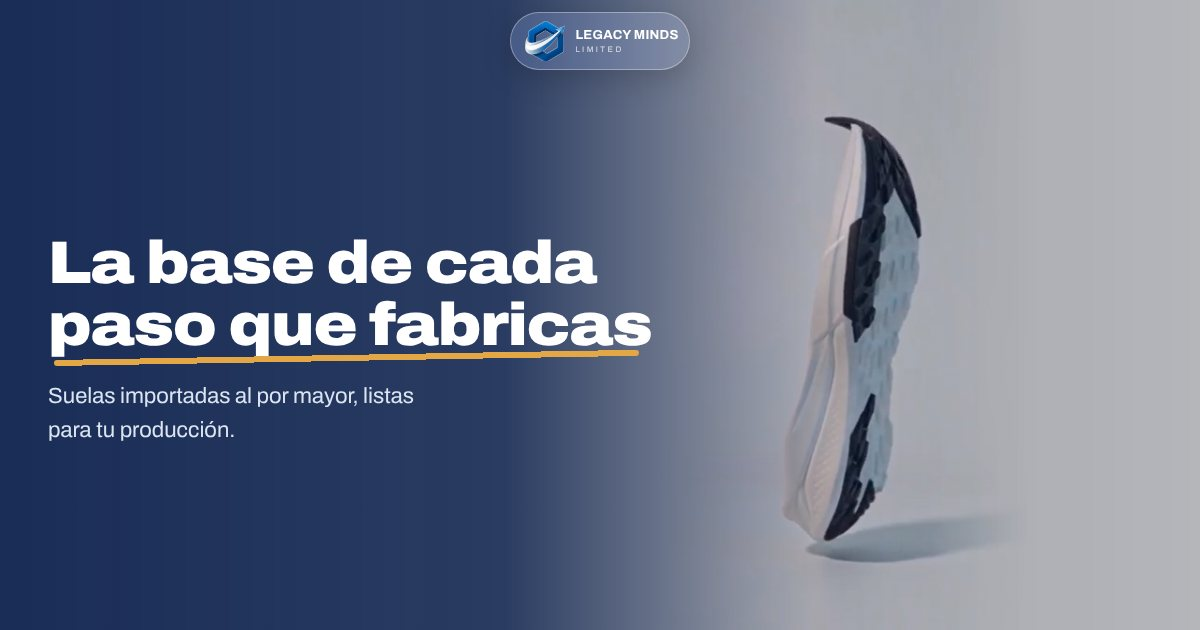
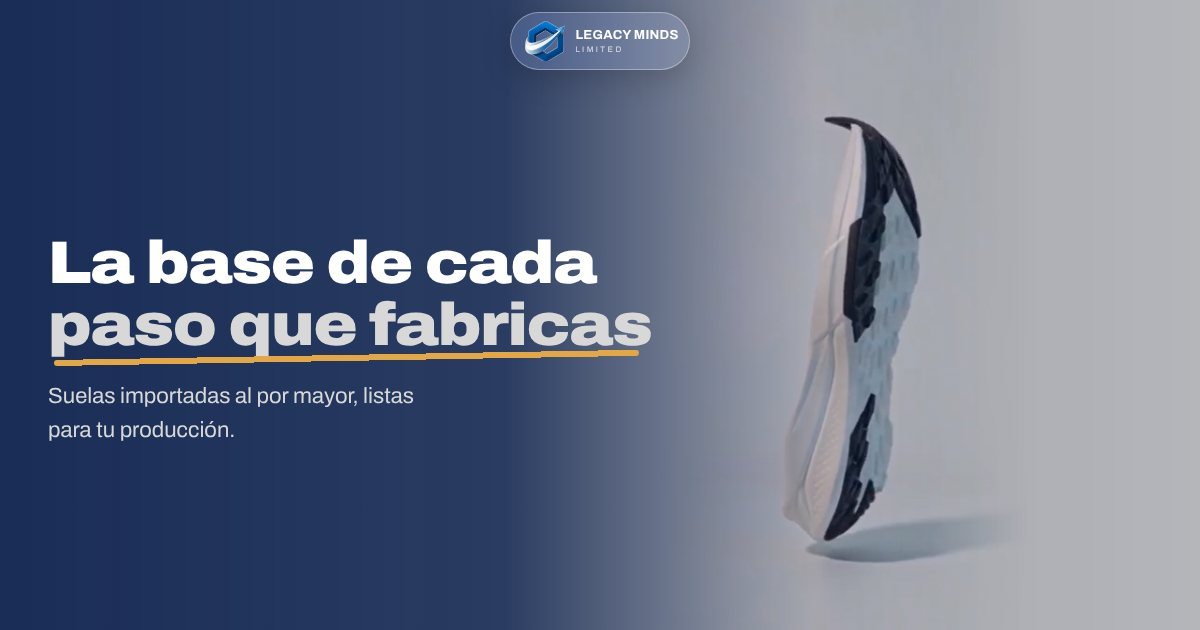
Usar plata en las frases sobre fondo azul
Claude-Session: https://claude.ai/code/session_01YB8eUKh1y6x1DSxjepAGcv

Changed region(s): [[0.0308, 0.4825, 0.555, 0.573]]

diff --git a/index.html b/index.html
@@ -26,7 +26,7 @@
    Verde solo para WhatsApp. */
 :root{
   --noche:#0F2450;--azul:#1B3A73;--azul2:#2758A8;--cielo:#9CC3F0;
-  --ambar:#E3A845;--ambar2:#C98B26;--estudio:#D8D8D8;--papel:#F3F5F8;--blanco:#FFFFFF;
+  --plata:#D8D8D8;--ambar:#E3A845;--ambar2:#C98B26;--estudio:#D8D8D8;--papel:#F3F5F8;--blanco:#FFFFFF;
   --tinta:#14213D;--muted:#566177;--linea:#D9DFE9;--wa:#25D366;--wa-tinta:#06281A;
   --resorte:cubic-bezier(.34,1.56,.64,1);
   --fuente:"Archivo","Helvetica Neue",Arial,sans-serif;
@@ -74,9 +74,9 @@ h2{font-size:clamp(32px,5vw,58px)}
 .herotxt{display:grid;gap:16px;justify-items:start;animation:pop .8s var(--resorte) both}
 .hero h1{font-size:clamp(30px,8.6vw,84px);font-weight:900;margin-bottom:.1em}
 .hero h1 span{display:block}
-.hero h1 .swoosh{position:relative;width:fit-content;white-space:nowrap}
+.hero h1 .swoosh{color:var(--plata);position:relative;width:fit-content;white-space:nowrap}
 .swoosh::after{content:"";position:absolute;left:1%;right:2%;bottom:-.16em;height:.1em;border-radius:99px;background:var(--ambar);transform:rotate(-1deg);transform-origin:left;animation:trazo .8s .45s cubic-bezier(.65,0,.35,1) both}
-.hero p{font-size:clamp(17px,2.1vw,22px);max-width:30ch;color:#DCE5F2}
+.hero p{font-size:clamp(17px,2.1vw,22px);max-width:30ch;color:var(--plata)}
 .bgvid,.fgvid{position:absolute;inset:0;width:100%;height:100%;object-fit:cover;z-index:0}
 .bgvid{object-position:50% 30%}
 .fgvid{display:none;object-position:70% 50%}
@@ -131,12 +131,12 @@ h2{font-size:clamp(32px,5vw,58px)}
 
 /* Precios */
 .precios{background:var(--noche);color:#fff}
-.precios .cab p{color:#DCE5F2}
+.precios .cab p{color:var(--plata)}
 .tabla{display:grid;gap:0}
 .tramo{display:grid;gap:4px;padding-block:22px;border-top:1px solid rgba(255,255,255,.2)}
-.tramo span{font-weight:600;color:#DCE5F2}
+.tramo span{font-weight:600;color:var(--plata)}
 .tramo b{font-size:clamp(38px,5vw,60px);font-weight:900;font-stretch:112%;line-height:1;letter-spacing:-.03em;font-variant-numeric:tabular-nums}
-.tramo em{font-style:normal;font-size:16px;color:#DCE5F2}
+.tramo em{font-style:normal;font-size:16px;color:var(--plata)}
 .tramo.top b{color:var(--ambar)}
 @media(min-width:768px){.tabla{grid-template-columns:1fr 1fr;gap:clamp(24px,5vw,72px)}}
 
@@ -177,7 +177,7 @@ h2{font-size:clamp(32px,5vw,58px)}
 @media(min-width:900px){.fqgrid{grid-template-columns:minmax(0,1fr) minmax(0,1.6fr)}}
 
 /* Cierre y pie */
-footer{background:var(--noche);color:#C6D2E6;font-size:15px}
+footer{background:var(--noche);color:var(--plata);font-size:15px}
 .cierre{padding-block:clamp(56px,8vw,96px);display:grid;gap:22px;justify-items:start}
 .cierre h2{color:#fff;max-width:16ch}
 .cierre p{font-size:18px;max-width:44ch}
@@ -188,7 +188,7 @@ footer{background:var(--noche);color:#C6D2E6;font-size:15px}
 .pie .col{display:grid;gap:8px;align-content:start}
 .pie .col a{text-decoration:none}
 .pie .col>a:not(.logo):hover{color:var(--ambar)}
-.legal{padding-block:18px 96px;display:flex;flex-wrap:wrap;gap:6px 24px;justify-content:space-between;border-top:1px solid rgba(255,255,255,.16);font-size:13px;color:#A9B7CF}
+.legal{padding-block:18px 96px;display:flex;flex-wrap:wrap;gap:6px 24px;justify-content:space-between;border-top:1px solid rgba(255,255,255,.16);font-size:13px;color:var(--plata)}
 @media(min-width:640px){.pie{grid-template-columns:1fr 1fr}}
 @media(min-width:960px){.pie{grid-template-columns:1.3fr 1fr 1.2fr 1fr}.legal{padding-bottom:28px}}
 
